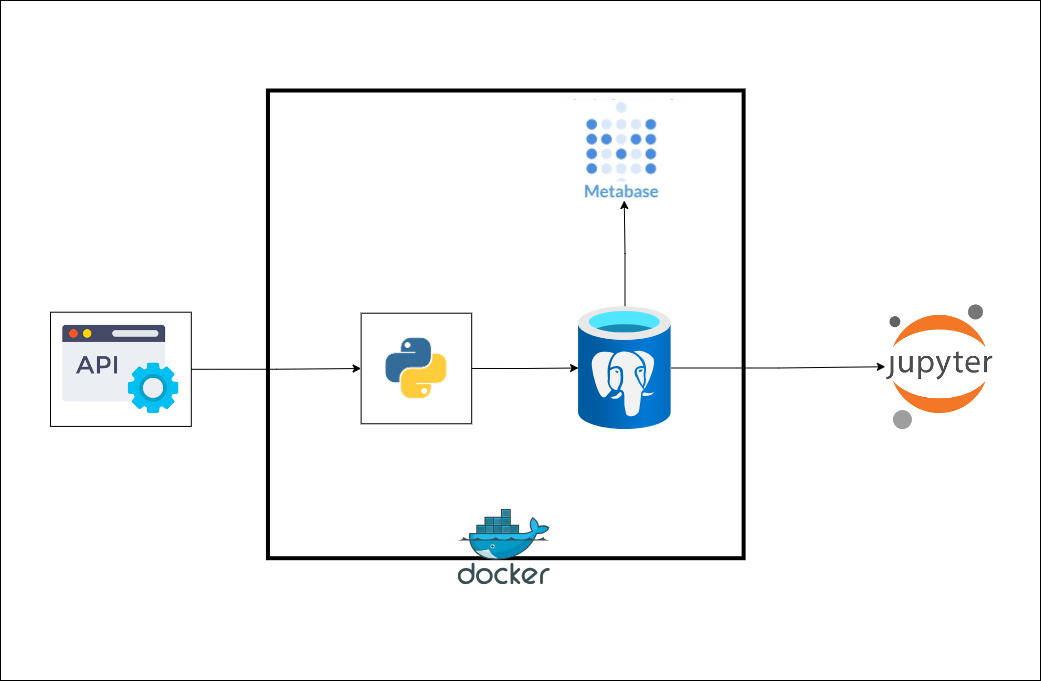
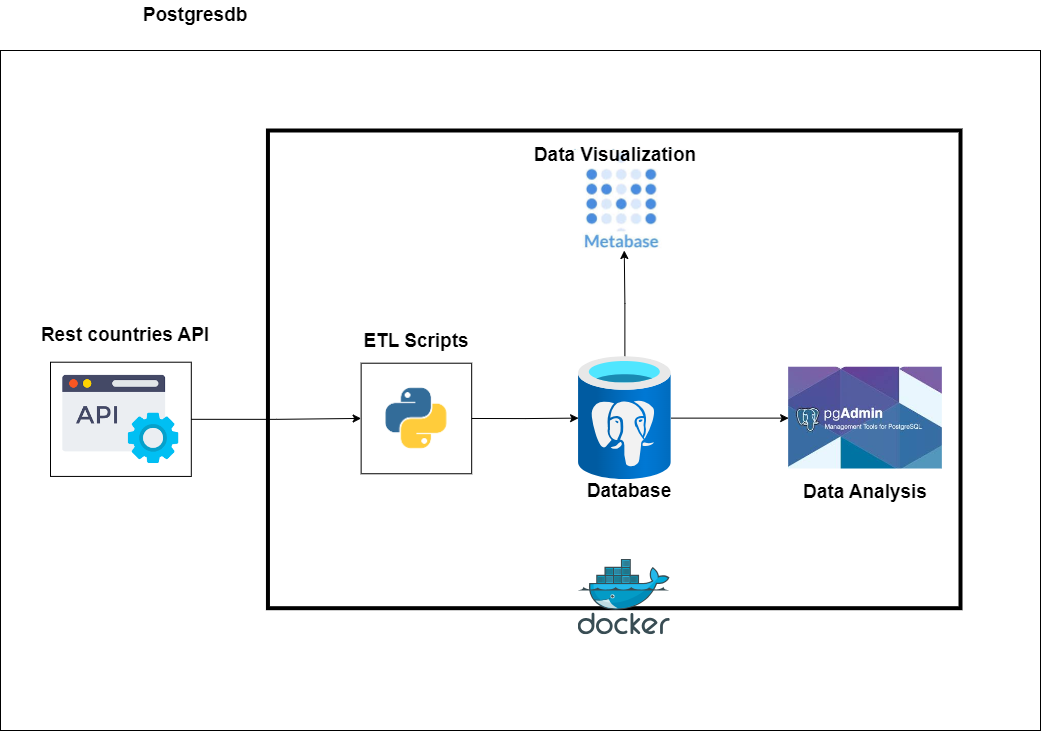
uisng pgadmin for analysis instead of jupyter notebook

diff --git a/README.md b/README.md
@@ -83,9 +83,9 @@ This automatically runs all the processes defined in the workflow. You can acces
 
 4. Connecting pgAdmin to Your PostgreSQL Database
     **Run the Server**
-        - Start the server by running `localhost:8080`.
+        - Start the server by running `localhost:8080` in your browser.
     **Sign in to pgAdmin**
-        - Open pgAdmin and sign in with your credentials.
+        - Open pgAdmin and sign in with your credentials; check the docker compose file.
     **Create a New Server**
         - Right-click on `Servers`.
         - Click on `Create` and then `Server`.
